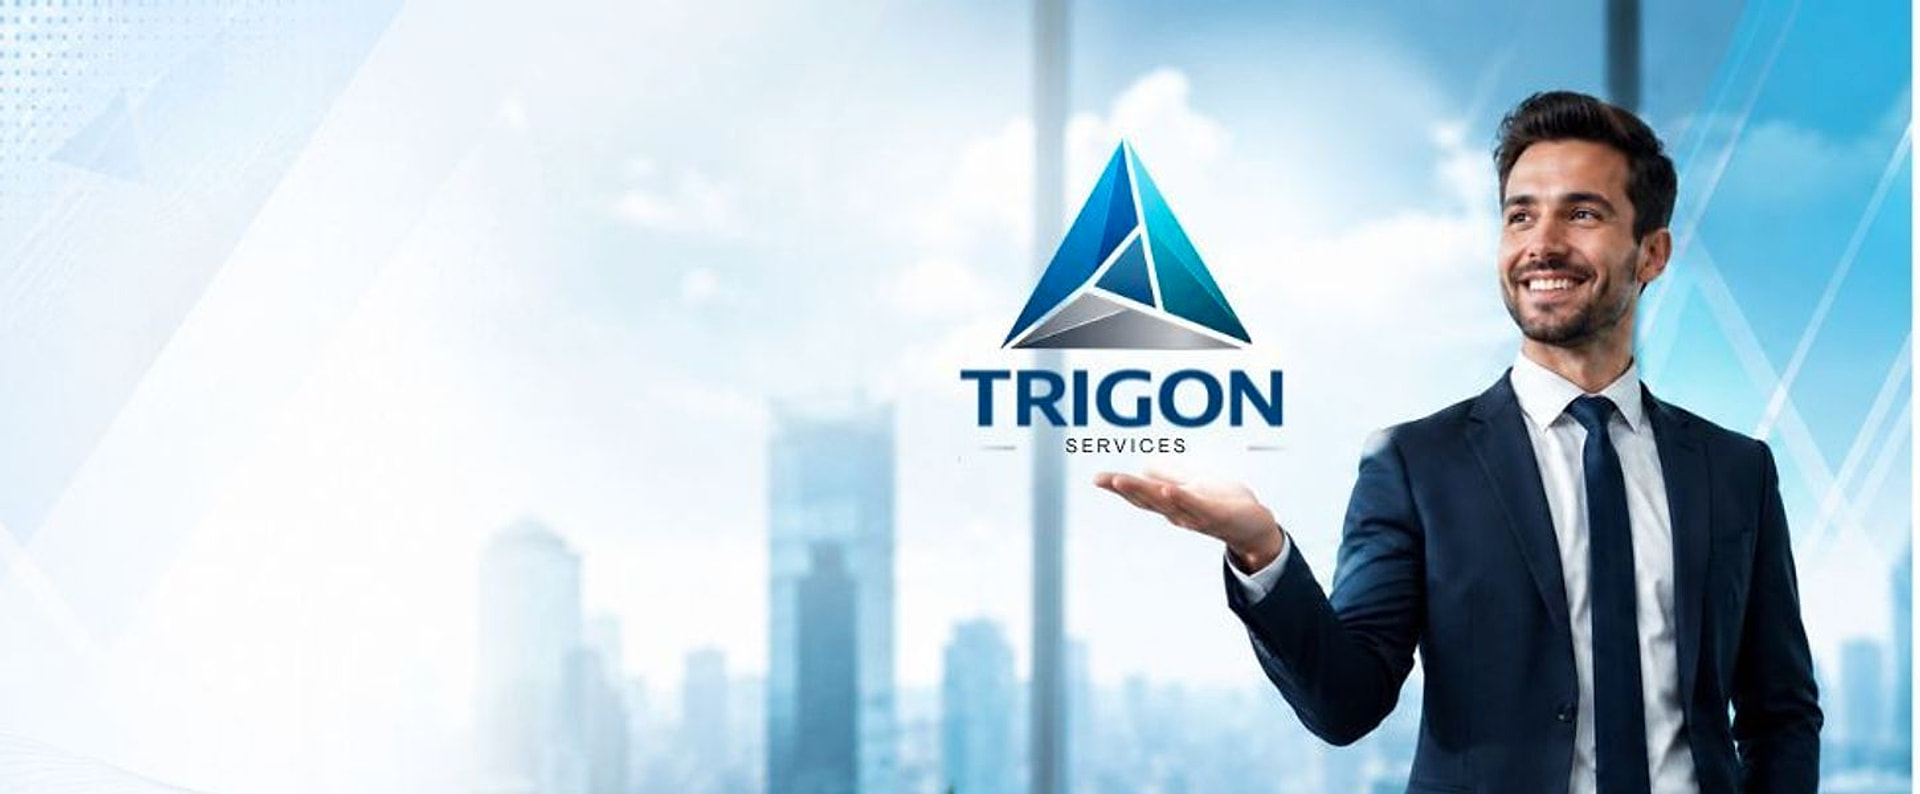
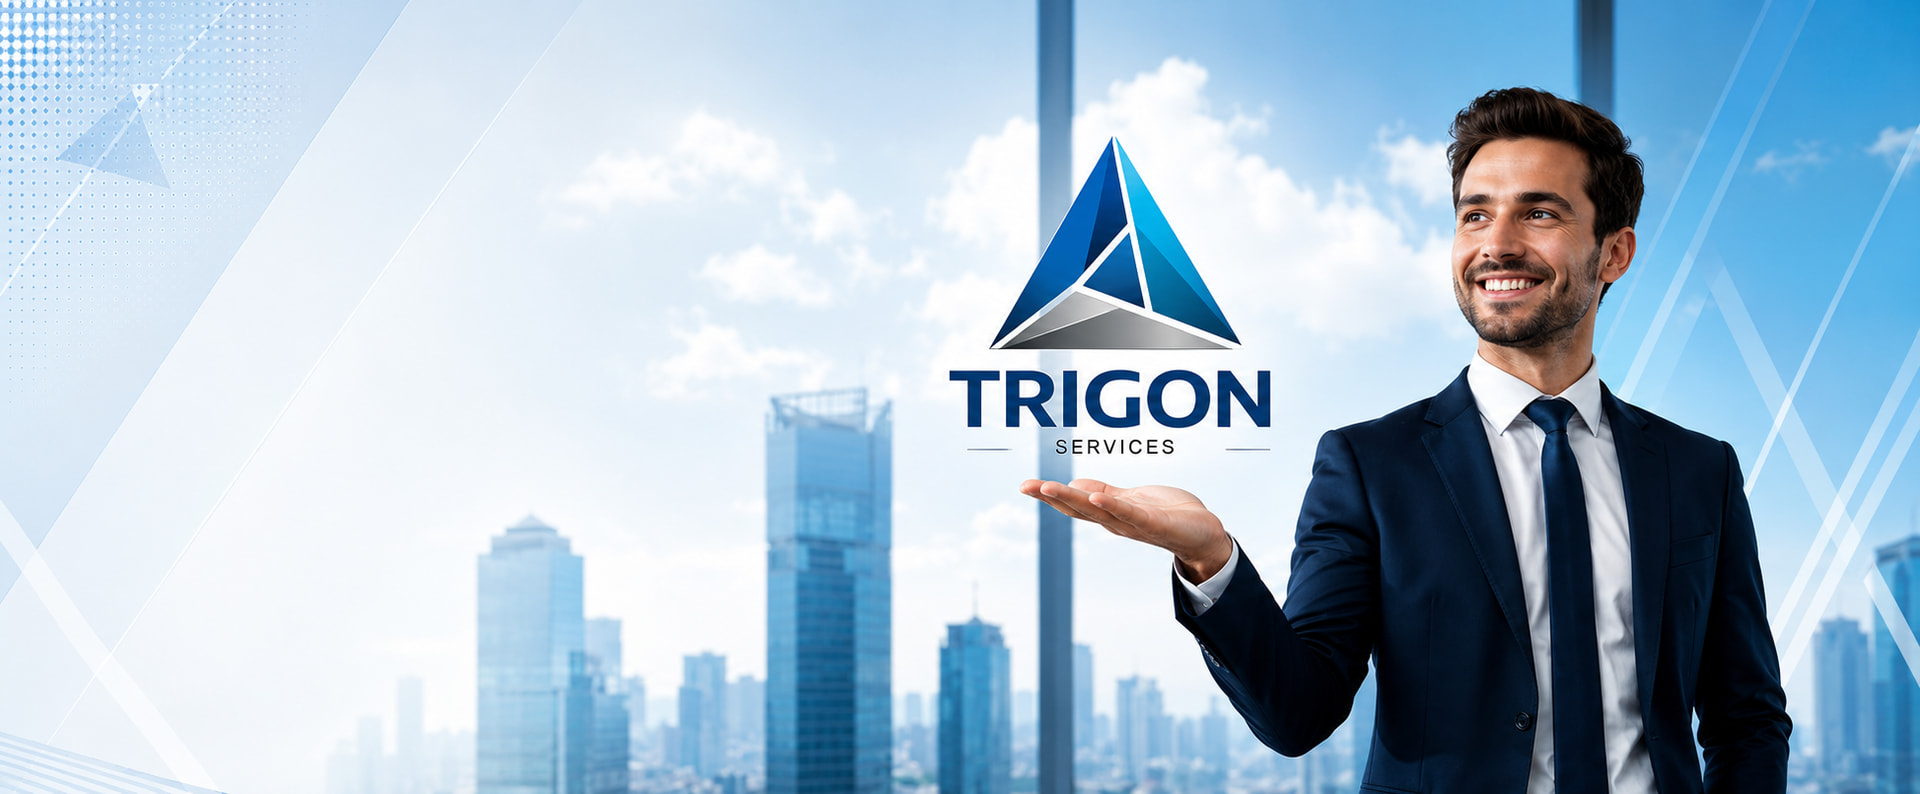
Swap hero carousel to higher-resolution branded photos
Replace the three hero images with sharper, higher-resolution
versions of the same concepts, and update the third slide's copy
(now shows certification/course completion certificates) to match.

diff --git a/src/components/HeroSlider.tsx b/src/components/HeroSlider.tsx
@@ -32,13 +32,13 @@ const slides = [
   },
   {
     photo: "/hero/bg-revslider-home1-03.jpg",
-    alt: "Business licenses and registration certificates laid out on a desk",
-    subtitle: "Trusted by 500+ Businesses",
-    titleMain: "Licenses",
-    titleSecond: "Certifications",
-    description: "FSSAI, ISO, trademark, and every sector-specific license your business needs to operate legally.",
-    cta: "View Pricing",
-    href: "/pricing",
+    alt: "Certificates of completion laid out on a desk",
+    subtitle: "Build Trust With Every Certificate",
+    titleMain: "Certifications",
+    titleSecond: "Quality Standards",
+    description: "ISO, BIS, CE, and every sector-specific certification that builds trust with your customers and partners.",
+    cta: "Explore Services",
+    href: "/services/certifications",
   },
 ];
 
